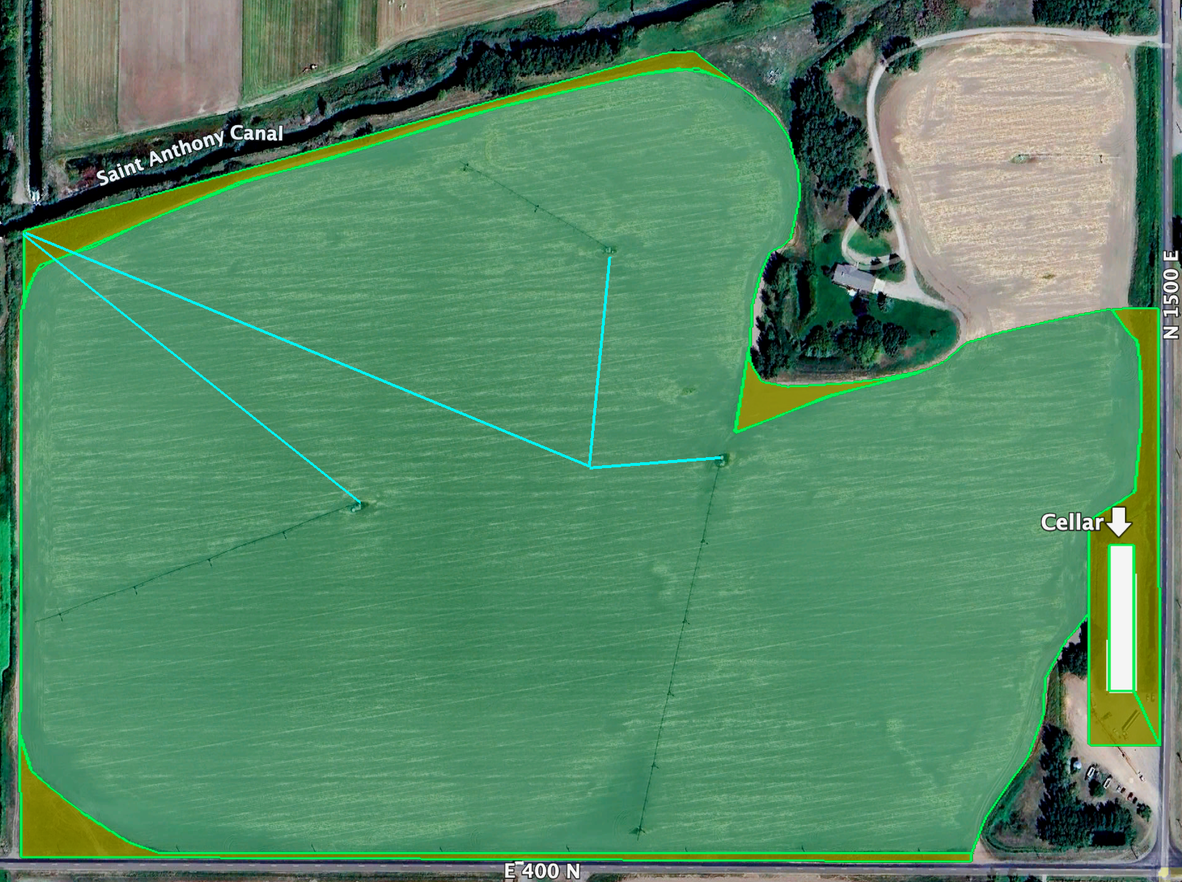
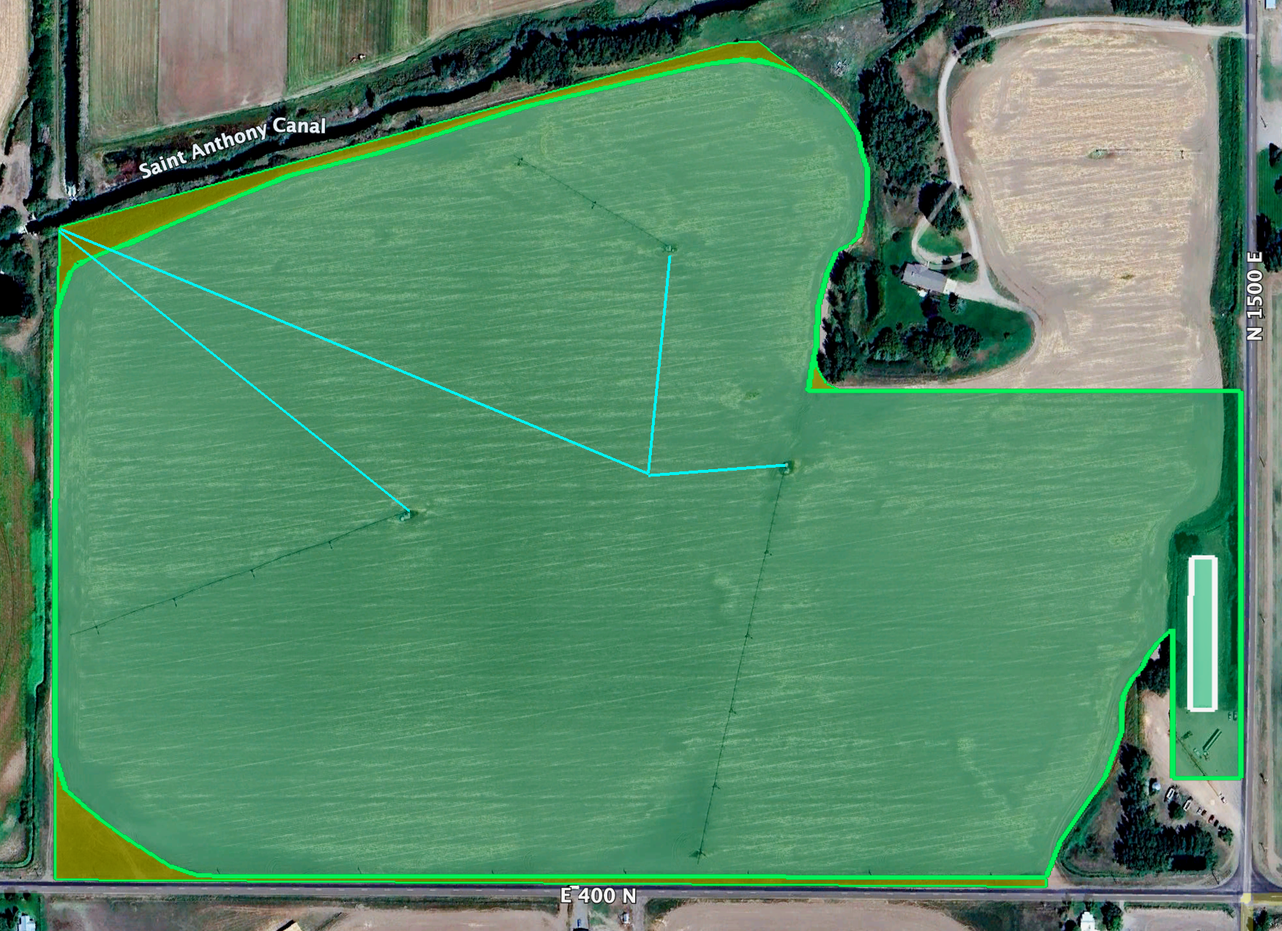
update

diff --git a/farmland/sandcreek-farms.html b/farmland/sandcreek-farms.html
@@ -296,7 +296,23 @@
                     <!-- Added separate Fremont County Parcels section -->
                     <h2>Fremont County Parcels</h2>
                     <p class="parcel-info">RP08N41E081800, RP08N41E172250, RP08N41E164800, RP08N41E162400, RP08N41E170002, RP08N41E084800, RP08N41E080150, RP08N41E070001, RP08N41E050002</p>
-                    
+                    <!-- Potato Cellar Section -->
+<div class="section">
+    <h2>Potato Storage Facility</h2>
+    <p style="margin-bottom: 1rem;">The property includes a well-maintained 120,000 cwt potato cellar with modern temperature and humidity control systems. The storage facility features:</p>
+    <ul style="margin: 1rem 0 1rem 2rem; font-family: 'EB Garamond', serif; font-size: 1.2rem;">
+        <li>Automated climate control system with efficient forced-air ventilation</li>
+        <li>Drive-through design for easy loading/unloading</li>
+        <li>Built in 2004</li>
+    </ul>
+    
+    <!-- Added cellar image -->
+    <div class="single-map">
+        <img src="images/blakes-cellar.png" alt="120,000 cwt potato storage facility at Sand Creek Farms with modern climate control systems built in 2004">
+    </div>
+    
+    <p>This storage facility provides significant added value and operational flexibility for the farm operation.</p>
+</div>
                     <!-- Water Rights Section - Blakes 2 line removed -->
                     <div class="section">
                         <h2>Early &amp; Secure Water Rights</h2>

diff --git a/farmland/index.html b/farmland/index.html
@@ -315,6 +315,7 @@
                                     <p>Location: Fremont County, near Saint Anthony</p>
                                     <p>Acreage: 5 pivots, 635 irrigated acres, 380 acres grazing</p>
                                     <p>Water Rights: Surface & Groundwater</p>
+                                    <p>Potato Cellar: 110,000 cwt</p>
                                     <br>
                                 </div>
                                 <div class="listing-footer">
